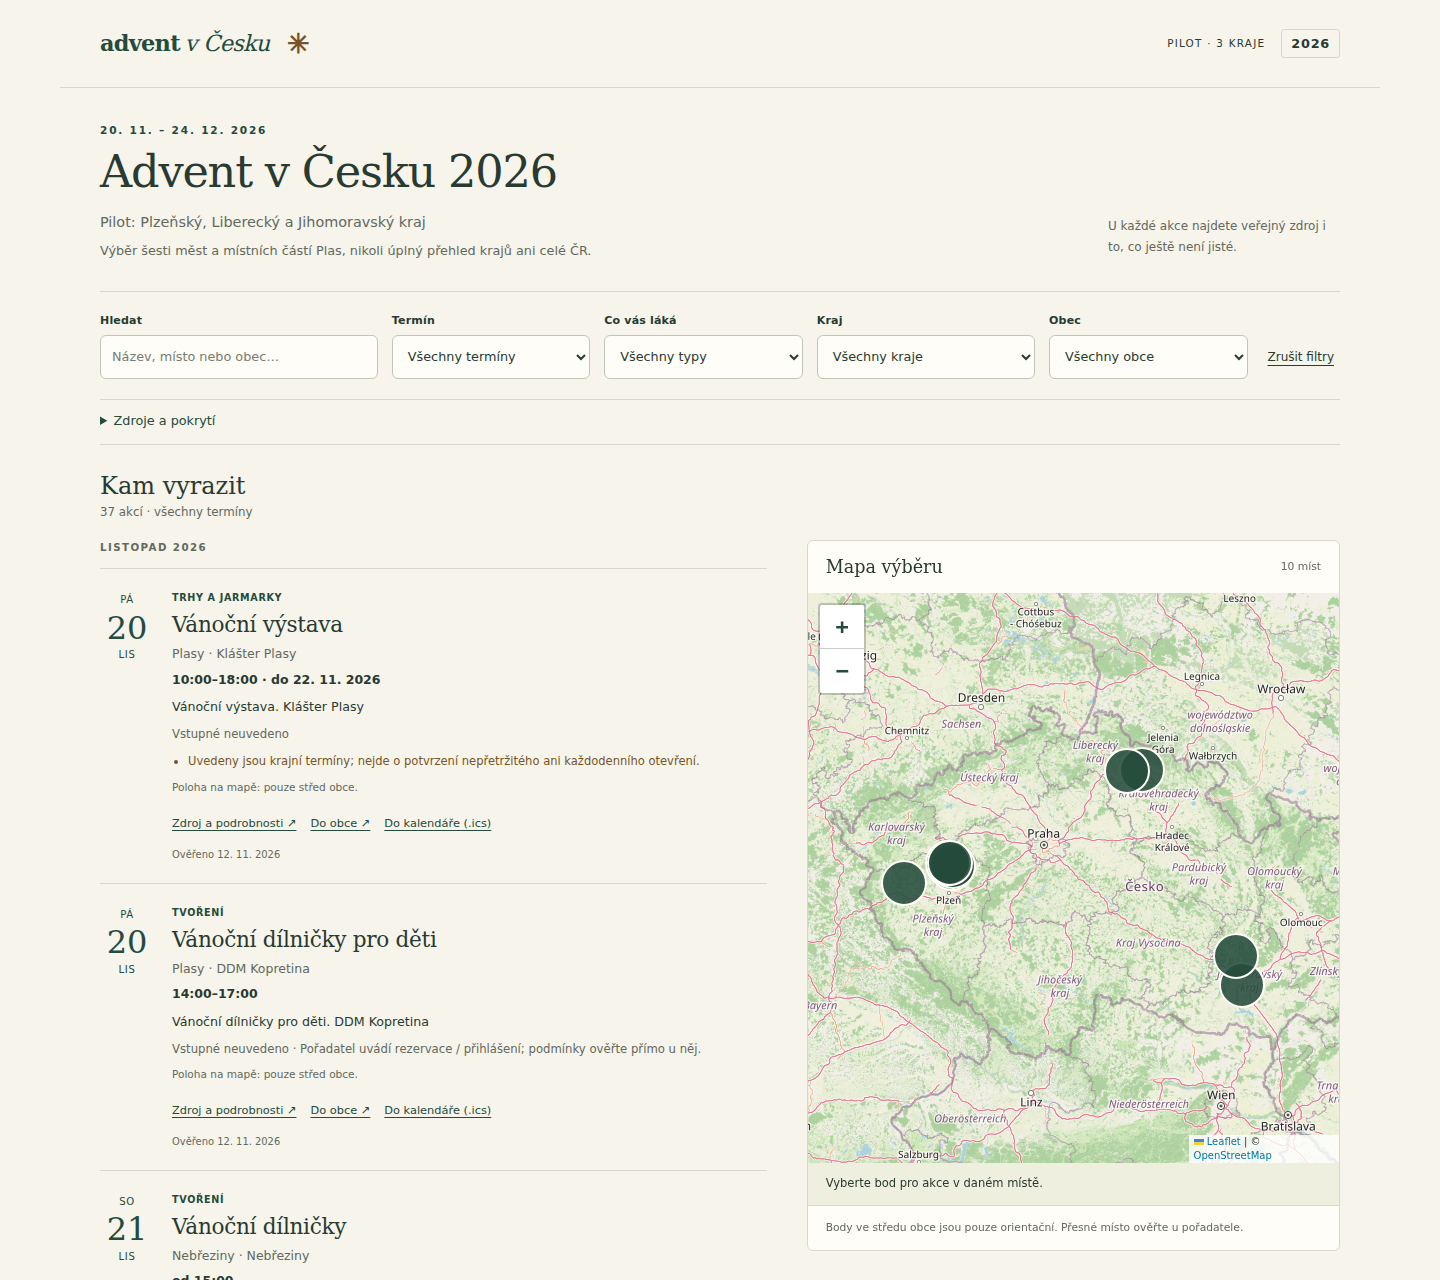
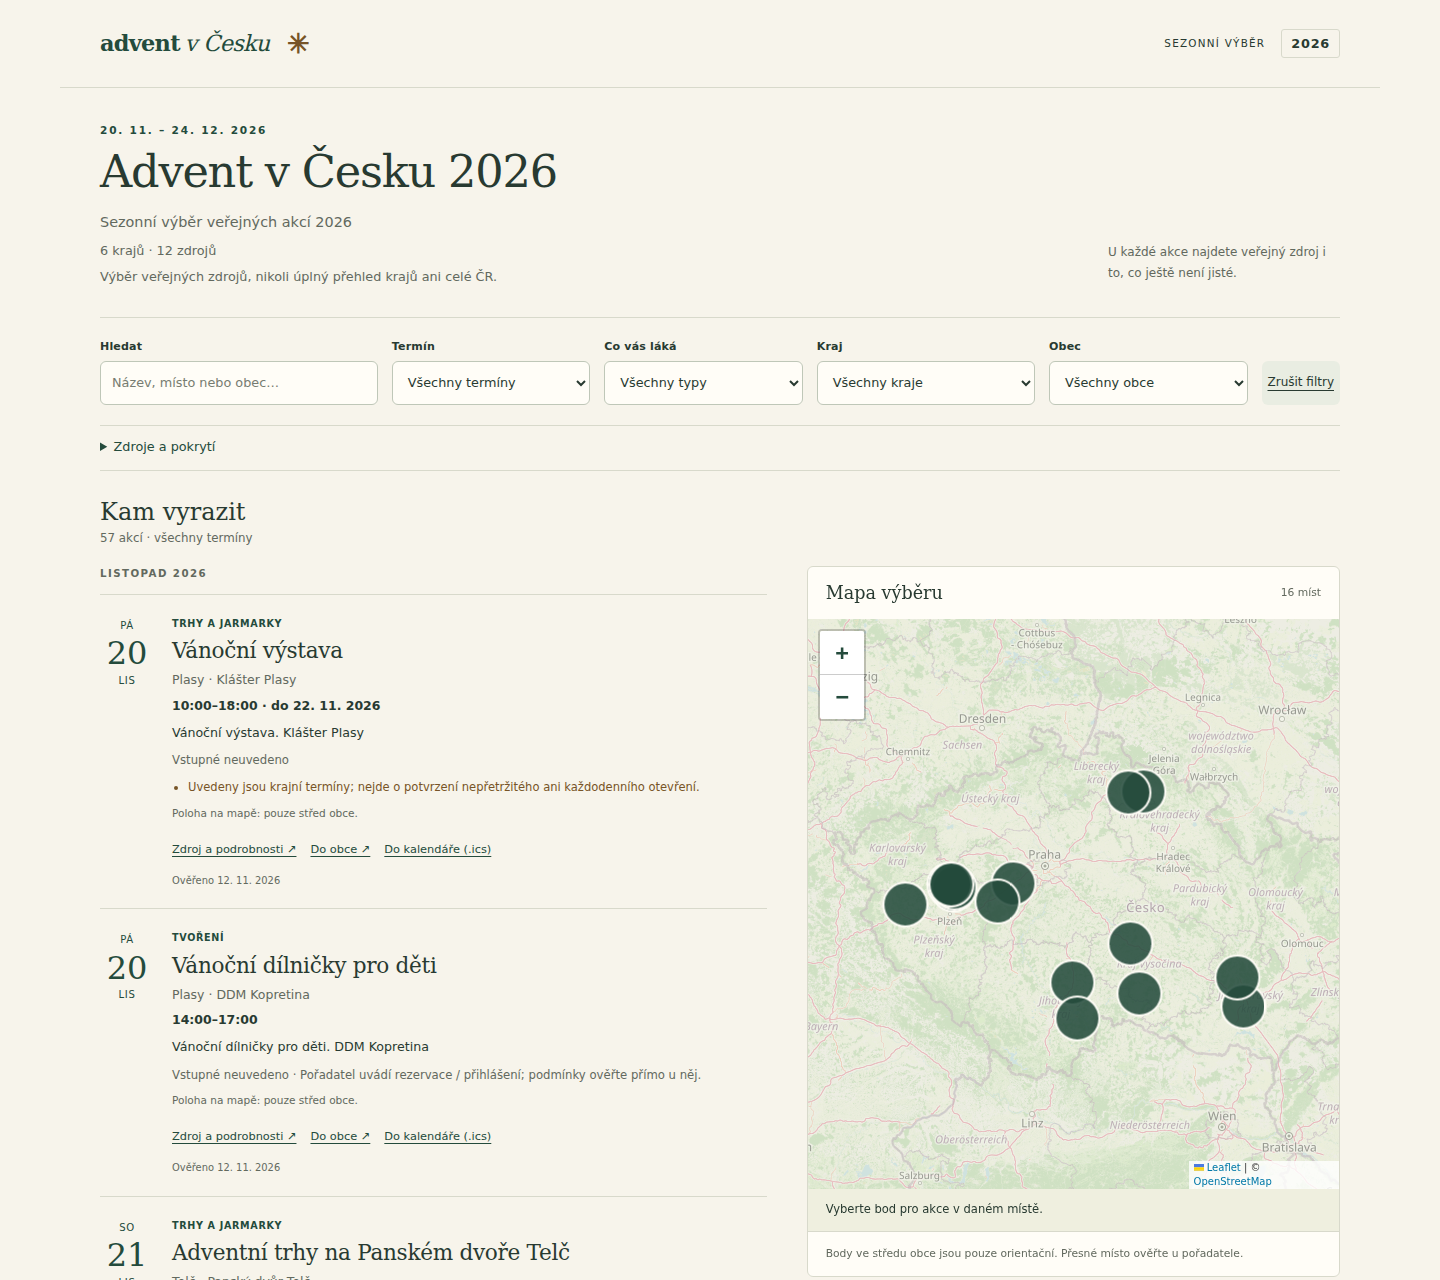
docs: refresh live screenshots for six-region coverage

diff --git a/README.md b/README.md
@@ -10,7 +10,7 @@ Sezonní projekt pro Vánoce 2026. Sbírá rozsvěcení stromků, mikulášské 
 
 ![Skutečná desktopová verze Adventu v Česku: filtry, chronologický seznam a mapa vybraných míst](docs/assets/desktop.png)
 
-*Screenshot nasazeného webu z 12. listopadu 2026 před rozšířením na šest krajů. Nejde o návrh rozhraní ani ukázková data.*
+*Screenshot nasazeného webu z 12. listopadu 2026 po rozšíření na šest krajů. Nejde o návrh rozhraní ani ukázková data.*
 
 ## Proč projekt vznikl
 
